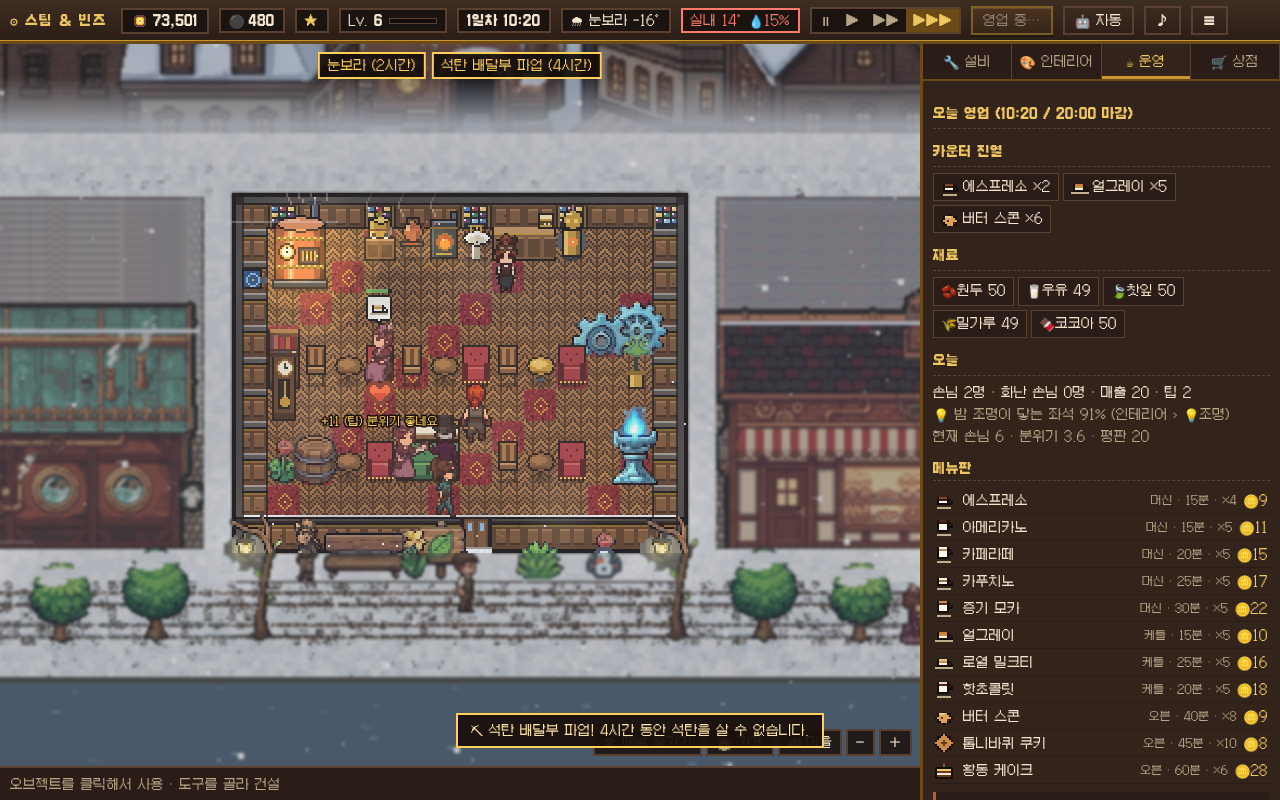
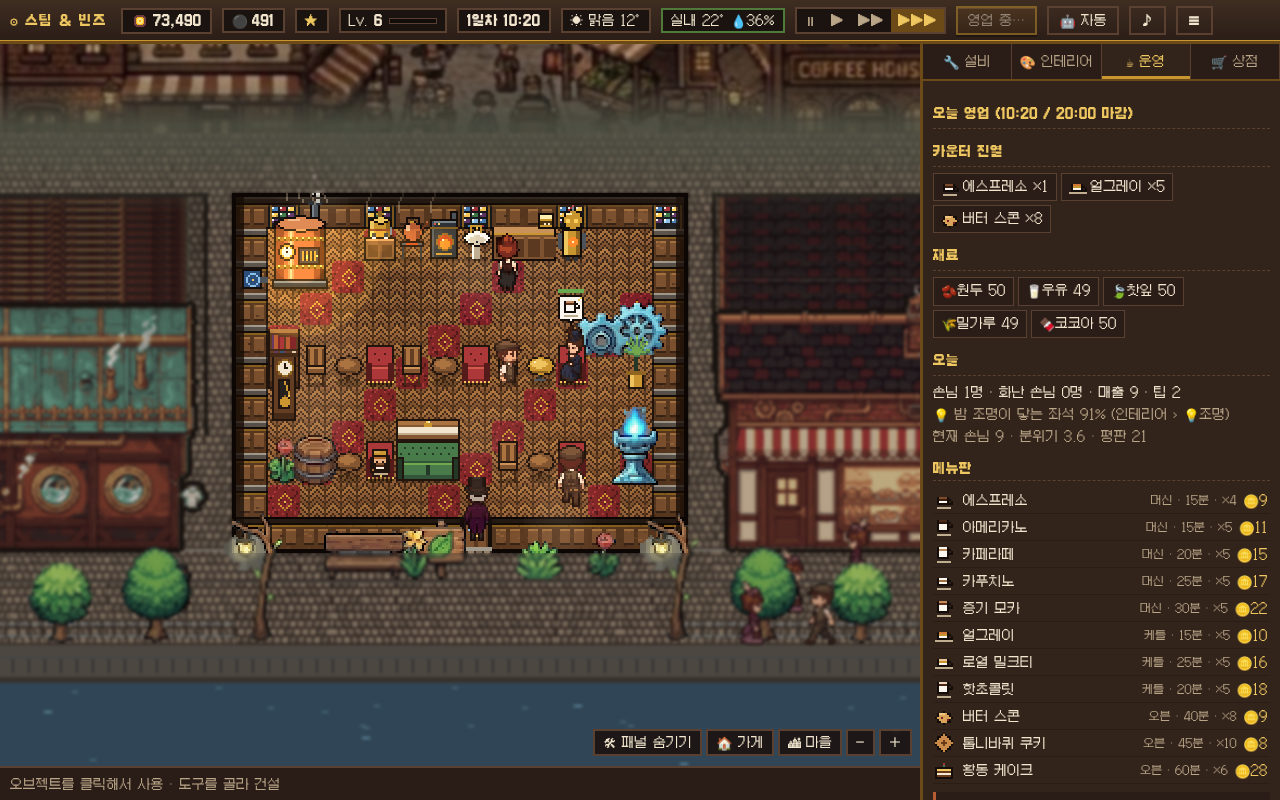
상점 구매 확인창과 개수 조절, 입양·대출·확장 확인
Claude-Session: https://claude.ai/code/session_01GLddWFGhu19UdYDuzdKUFY

diff --git a/js/ui.js b/js/ui.js
@@ -258,12 +258,12 @@ const UI = {
       list.append(h('div', { class: 'srow' },
         h('span', { class: 'sicon' }, ing.icon), h('span', { class: 'mname' }, ing.name),
         h('span', { class: 'dim', 'data-stock': id }, ''),
-        h('button', { class: 'btn', onclick: () => { Game.buy(id); this.refreshLive(); } }, `+${ing.pack} · 🪙${ing.price}`)));
+        h('button', { class: 'btn', onclick: () => this.showBuy(id) }, `구매 · 🪙${ing.price}/${ing.pack}개`)));
     }
     list.append(h('div', { class: 'srow' },
       h('span', { class: 'sicon' }, '⚫'), h('span', { class: 'mname' }, '석탄'),
       h('span', { class: 'dim', 'data-stock': 'coal' }, ''),
-      h('button', { class: 'btn', id: 'coalBtn', onclick: () => { Game.buy('coal'); this.refreshLive(); } }, '')));
+      h('button', { class: 'btn', id: 'coalBtn', onclick: () => this.showBuy('coal') }, '')));
     B.append(list);
     B.append(h('h3', {}, '🏦 증기 은행'), h('div', { id: 'live-bank', class: 'expand' }));
     B.append(h('p', { class: 'tip' }, `대출금은 바로 입금되고, 원금과 이자를 정해진 날 수로 나눠 매일 영업 마감 때 자동으로 갚습니다. 그날 돈이 모자라면 연체료(상환금의 ${DATA.loanLateFee * 100}%)가 붙고 평판이 떨어져요. 언제든 미리 갚을 수 있습니다.`));
@@ -415,7 +415,7 @@ const UI = {
           kids.push(h('div', { class: 'srow' },
             h('span', { class: 'mname' }, `${d.name} 🪙${fmt(d.amount)}`),
             h('span', { class: 'dim' }, `이자 ${Math.round(d.rate * 100)}% · ${d.days}일 · 매일 ${fmt(inf.perDay)}`),
-            h('button', { class: 'btn', disabled: !!inf.why, onclick: () => Game.takeLoan(d.id) }, inf.why || '빌리기')));
+            h('button', { class: 'btn', disabled: !!inf.why, onclick: () => this.confirm(`🏦 ${d.name}`, `🪙${fmt(d.amount)}을 빌립니다. 이자 ${Math.round(d.rate * 100)}% · ${d.days}일 동안 매일 마감 때 🪙${fmt(inf.perDay)}씩 자동 상환`, '빌리기', () => Game.takeLoan(d.id)) }, inf.why || '빌리기')));
         }
         lb.replaceChildren(...kids);
       }
@@ -430,7 +430,7 @@ const UI = {
           const locked = k.lv > s.level, full = s.cats.length >= DATA.catMax;
           kids.push(h('div', { class: 'srow' }, h('span', { class: 'mname' }, Sprites.thumb('cat', k.id, 32), ' ', k.name),
             h('span', { class: 'dim' }, `${k.kg}kg · 현열 ${k.sens}W · 잠열 ${k.lat}W`),
-            h('button', { class: 'btn', disabled: locked || full, onclick: () => Game.adoptCat(k.id) }, locked ? `Lv.${k.lv}` : full ? '가득' : `🪙${fmt(k.cost)}`)));
+            h('button', { class: 'btn', disabled: locked || full, onclick: () => this.confirm(`🐈 ${k.name} 입양`, `🪙${fmt(k.cost)} · 사료비 하루 🪙${DATA.catFoodPerDay}`, `입양 (🪙${fmt(k.cost)})`, () => Game.adoptCat(k.id)) }, locked ? `Lv.${k.lv}` : full ? '가득' : `🪙${fmt(k.cost)}`)));
         }
         lc.replaceChildren(...kids);
       }
@@ -446,17 +446,12 @@ const UI = {
             const inf = Game.expandInfo(d);
             return h('div', { class: 'srow' }, h('span', { class: 'mname' }, label),
               h('span', { class: 'dim' }, inf.room < inf.step ? '최대' : `→ ${inf.newW - 2}×${inf.newH - 2}`),
-              h('button', { class: 'btn', disabled: !!inf.why, title: inf.why || '', onclick: ev => {
-                const b = ev.currentTarget;
-                if (b.dataset.armed) { Game.expand(d); return; }
-                b.dataset.armed = '1'; b.textContent = `확정? 🪙${fmt(inf.cost)}`; b.classList.add('danger');
-                setTimeout(() => { if (b.isConnected) { delete b.dataset.armed; b.textContent = `🪙${fmt(inf.cost)}`; b.classList.remove('danger'); } }, 3000);
-              } }, inf.why && inf.why !== '돈 부족' ? inf.why : `🪙${fmt(inf.cost)}`));
+              h('button', { class: 'btn', disabled: !!inf.why, title: inf.why || '', onclick: () => this.confirm(`🏗 ${label}`, `가게가 ${inf.newW - 2}×${inf.newH - 2}칸으로 넓어집니다. 새 칸은 맨흙이에요.`, `공사 (🪙${fmt(inf.cost)})`, () => Game.expand(d)) }, inf.why && inf.why !== '돈 부족' ? inf.why : `🪙${fmt(inf.cost)}`));
           }));
       }
     }
     const cb = $('#coalBtn');
-    if (cb) { cb.textContent = `+${DATA.coal.pack} · 🪙${Game.coalPrice()}`; cb.disabled = Game.hasEvent('coalStrike'); }
+    if (cb) { cb.textContent = `구매 · 🪙${Game.coalPrice()}/${DATA.coal.pack}개`; cb.disabled = Game.hasEvent('coalStrike'); }
   },
   statusRow(ok, text) { return h('div', { class: 'srow2 ' + (ok ? 'ok' : 'no') }, (ok ? '✔ ' : '✘ ') + text); },
 
@@ -685,6 +680,52 @@ const UI = {
     const m = $('#modal'); m.replaceChildren(h('div', { class: 'mbox' }, content)); m.hidden = false;
   },
   closeModal() { $('#modal').hidden = true; },
+  // 단순 확인창
+  confirm(title, text, okLabel, onOk) {
+    this.modal(h('div', { class: 'buybox' }, h('h2', {}, title), h('p', {}, text),
+      h('div', { class: 'buybtns' },
+        h('button', { class: 'btn ghost', onclick: () => this.closeModal() }, '취소'),
+        h('button', { class: 'btn big', onclick: () => { this.closeModal(); onOk(); this.refreshLive(); } }, okLabel))));
+  },
+  // 재료·석탄 구매 확인창: 개수(묶음) 조절
+  showBuy(kind) {
+    const coal = kind === 'coal', ing = coal ? null : DATA.ingredients[kind];
+    const name = coal ? '석탄' : ing.name, icon = coal ? '⚫' : ing.icon, pack = coal ? DATA.coal.pack : ing.pack;
+    const price = () => coal ? Game.coalPrice() : ing.price;
+    const have = () => coal ? Math.floor(Game.s.coal) : Game.s.stock[kind];
+    const max = () => Math.max(1, Math.min(99, Math.floor(Game.s.money / price())));
+    let qty = 1;
+    const qEl = h('input', { class: 'qty', type: 'number', min: 1, max: 99, value: 1, inputmode: 'numeric' });
+    const info = h('div', { class: 'buyinfo' }), okBtn = h('button', { class: 'btn big' }, '');
+    const sync = () => {
+      qty = Math.max(1, Math.min(99, Math.floor(+qEl.value || 1)));
+      if (+qEl.value !== qty) qEl.value = qty;
+      const total = price() * qty, short = total > Game.s.money;
+      info.replaceChildren(...[
+        h('div', {}, `보유 ${fmt(have())}개 → `, h('b', {}, `${fmt(have() + pack * qty)}개`), h('span', { class: 'dim' }, ` (+${fmt(pack * qty)})`)),
+        h('div', {}, `합계 `, h('b', { class: short ? 'bad' : '' }, `🪙${fmt(total)}`), h('span', { class: 'dim' }, ` · 남는 돈 🪙${fmt(Game.s.money - total)}`)),
+        short ? h('div', { class: 'bad' }, '돈이 모자라요') : null].filter(Boolean));
+      okBtn.textContent = `구매 (🪙${fmt(total)})`;
+      okBtn.disabled = short;
+    };
+    const step = d => () => { qEl.value = Math.max(1, Math.min(99, qty + d)); sync(); };
+    qEl.addEventListener('input', sync);
+    qEl.addEventListener('keydown', e => { if (e.key === 'Enter') okBtn.click(); });
+    okBtn.addEventListener('click', () => { if (Game.buy(kind, qty)) { this.closeModal(); this.toast(`${icon} ${name} ${fmt(pack * qty)}개 구매 (🪙${fmt(price() * qty)})`, 'good'); this.refreshLive(); } else sync(); });
+    this.modal(h('div', { class: 'buybox' },
+      h('h2', {}, `${icon} ${name} 구매`),
+      h('p', { class: 'dim' }, `1묶음 = ${pack}개 · 🪙${fmt(price())}`),
+      h('div', { class: 'stepper' },
+        h('button', { class: 'btn ghost', onclick: step(-10) }, '−10'),
+        h('button', { class: 'btn ghost', onclick: step(-1) }, '−'),
+        qEl, h('span', { class: 'dim' }, '묶음'),
+        h('button', { class: 'btn ghost', onclick: step(1) }, '＋'),
+        h('button', { class: 'btn ghost', onclick: step(10) }, '+10'),
+        h('button', { class: 'btn ghost', onclick: () => { qEl.value = max(); sync(); } }, '최대')),
+      info,
+      h('div', { class: 'buybtns' }, h('button', { class: 'btn ghost', onclick: () => this.closeModal() }, '취소'), okBtn)));
+    sync();
+  },
 
   showTitle() {
     App.onTitle = true;

diff --git a/js/game.js b/js/game.js
@@ -691,15 +691,19 @@ const Game = {
   },
 
   // ───────── 상점 ─────────
-  buy(kind) {
+  // 묶음 단위로 qty 개 한꺼번에 (상점 확인창에서 개수 조절)
+  buy(kind, qty = 1) {
+    qty = Math.max(1, Math.floor(qty));
     if (kind === 'coal') {
-      if (this.hasEvent('coalStrike')) { this.toast('석탄 배달부 파업 중!', 'bad'); return; }
-      const p = this.coalPrice();
-      if (this.spend(p)) { this.s.coal += DATA.coal.pack; this.sfx('coal'); }
-      return;
+      if (this.hasEvent('coalStrike')) { this.toast('석탄 배달부 파업 중!', 'bad'); return false; }
+      if (!this.spend(this.coalPrice() * qty)) return false;
+      this.s.coal += DATA.coal.pack * qty; this.sfx('coal');
+      return true;
     }
     const ing = DATA.ingredients[kind];
-    if (this.spend(ing.price)) { this.s.stock[kind] += ing.pack; this.sfx('buy'); }
+    if (!this.spend(ing.price * qty)) return false;
+    this.s.stock[kind] += ing.pack * qty; this.sfx('buy');
+    return true;
   },
 
   // ───────── 영업 ─────────

diff --git a/css/style.css b/css/style.css
@@ -211,3 +211,13 @@ body.panel-hidden #stage { flex: 1; height: auto; }
 /* 전체화면·홈 화면 앱: 노치/홈 표시줄 영역 피하기 */
 #app { padding: env(safe-area-inset-top) env(safe-area-inset-right) env(safe-area-inset-bottom) env(safe-area-inset-left); box-sizing: border-box; }
 .fs-hint { font-size: 11px; margin-top: 10px; line-height: 1.5; }
+/* 상점 구매 확인창 */
+.buybox h2 { text-align: center; }
+.buybox p { text-align: center; }
+.stepper { display: flex; align-items: center; justify-content: center; gap: 6px; flex-wrap: wrap; margin: 10px 0; }
+.stepper .btn { min-width: 40px; }
+.stepper .qty { width: 64px; text-align: center; font: inherit; font-size: 18px; padding: 6px; background: #120c0a; color: var(--brass-hi); border: 2px solid var(--brass); }
+.buyinfo { text-align: center; margin: 8px 0 12px; line-height: 1.8; }
+.buyinfo .bad, .buyinfo b.bad { color: #ff8a7a; }
+.buybtns { display: flex; gap: 8px; justify-content: center; }
+.buybtns .btn.big { flex: 1; margin: 0; }

diff --git a/README.md b/README.md
@@ -35,6 +35,7 @@
 17. **✓ 확정식 설치**: 오브젝트는 누르면 미리보기(깜빡이는 테두리)만 생기고, 끌어서 자리를 맞춘 뒤 아래 **✓ 설치**(또는 Enter)를 눌러야 지어짐. 배관·배관 철거도 드래그로 칸을 고른 뒤(고른 칸을 다시 누르면 빠짐) **✓ n칸 깔기**로 한 번에 확정·결제. ✕ 취소는 미리보기만 지움.
 18. **📱 모바일 전체화면**: 모바일에서 [새 게임]/[이어하기]를 누르면 전체화면으로 전환(안드로이드 크롬 등). 메뉴(☰)에서 켜고 끄기. 아이폰 사파리는 웹 전체화면을 지원하지 않으므로 공유 → [홈 화면에 추가]로 설치하면 주소창 없이 전체화면 앱으로 실행(`manifest.webmanifest`, 아이콘 `assets/icon-*.png`).
 19. **🔊 효과음·증기 환경음** (`js/sfx.js`, 파일 없이 WebAudio 합성): 에스프레소 추출(쉭+보글)·주전자·오븐, 완성 종, 컵 소리, 서빙, 결제 동전(팁이면 반짝음), 손님 입장 종, 설치·배관 쇳소리·철거, 칠하기, 얼룩 닦기, 압력 배출, 수리, 보일러 파열, 이벤트 기적, 개점·마감 종, 레벨업, 오류음. 마을 쪽으로 줌아웃할수록 가게 소리는 작아지고 증기 도시 환경음(새는 증기, 공장 웅웅, 증기기관 칙칙폭폭, 멀리 기적, 밸브 푸슉, 망치 쇳소리)이 커짐. 메뉴(☰)에서 효과음 켜기/끄기 (음악 ♪ 와 따로).
+20. **🛒 구매 확인창**: 재료·석탄은 [구매]를 누르면 확인창에서 묶음 수를 −10/−/＋/+10/최대 또는 직접 입력으로 정하고 합계·남는 돈·구매 후 보유량을 확인한 뒤 구매. 고양이 입양·대출·공간 확장도 확인창을 거침.
 
 새 오브제: 증기 춤추는 풍선인형(급탕관 연결 시 춤춤), 몬스테라·산세베리아·고무나무, 청자 매병·백자 달항아리·옹기 항아리.
 
